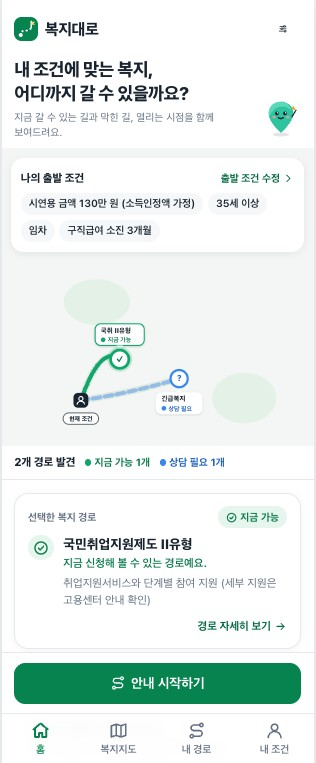
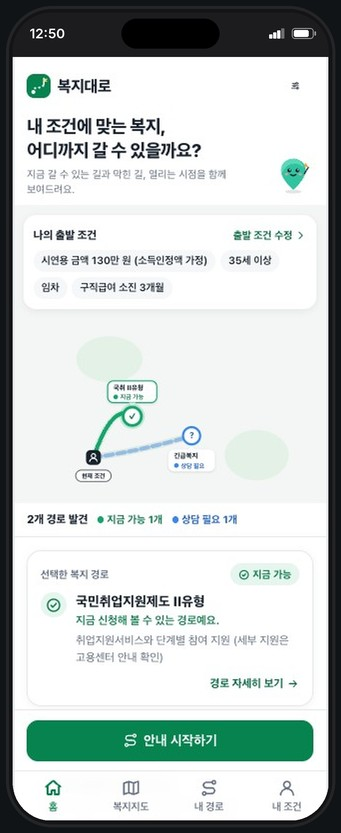
Add files via upload

diff --git a/index.html b/index.html
@@ -166,9 +166,23 @@ nav:has(.sheet.open) .cats .kc{stroke:var(--tint)}
 .browser .bar i{width:7px;height:7px;border-radius:50%;background:var(--line)}
 .browser .bar span{margin-left:12px}
 .browser img{width:100%}
-.screen{width:100%;background:#0B0D12;border-radius:10px 10px 0 0;padding:8px 8px 0;box-shadow:0 12px 32px rgba(30,36,34,.12);overflow:hidden}
-.screen img{width:100%;border-radius:4px 4px 0 0;display:block}
-.d-cover .screen{max-width:980px}
+.screen{position:relative;display:flex;height:100%;padding:9px;border-radius:18px;background:linear-gradient(155deg,#2E3136 0%,#15171A 28%,#0C0D0F 100%);box-shadow:0 0 0 1px #D9DCE0,0 0 0 2.5px #8D9299,0 0 0 3.5px rgba(40,36,30,.25),inset 0 1px 0 rgba(255,255,255,.14),0 34px 46px -22px rgba(52,40,24,.55),0 10px 18px -8px rgba(30,26,20,.28)}
+.screen img{height:100%;width:auto;max-width:none;border-radius:8px;display:block;box-shadow:0 0 0 1px rgba(255,255,255,.09)}
+.screen::after{content:"";position:absolute;inset:9px;border-radius:8px;pointer-events:none;background:linear-gradient(115deg,rgba(255,255,255,.07) 0%,rgba(255,255,255,0) 38%)}
+.cover:has(.screen),.d-cover:has(.screen){position:relative;isolation:isolate}
+.cover:has(.screen)::after,.d-cover:has(.screen)::after{content:"";position:absolute;z-index:0;left:-12%;right:-12%;bottom:-2px;height:27%;border-radius:50% 50% 0 0/46% 46% 0 0;background:linear-gradient(180deg,#CBC3B6 0%,#BCB3A5 50%,#A99F90 100%);border-top:2px solid #E6D9C0;box-shadow:inset 0 1px 0 rgba(255,255,255,.7),inset 0 3px 0 rgba(120,100,70,.18),0 -1px 0 rgba(60,50,35,.12)}
+.cover:has(.screen)::before,.d-cover:has(.screen)::before{content:"";position:absolute;z-index:0;left:-10%;right:-10%;bottom:-2px;height:calc(27% - 12px);border-radius:50% 50% 0 0/46% 46% 0 0;border-top:1px dashed rgba(255,250,240,.55);pointer-events:none}
+.cover:has(.screen),.d-cover:has(.screen){background:radial-gradient(ellipse 70% 60% at 50% 28%,rgba(255,255,255,.65),rgba(255,255,255,0) 70%),linear-gradient(180deg,#EEEBE6 0%,#E2DDD5 100%)}
+.cover:has(.screen) .screen,.d-cover:has(.screen) .screen{z-index:1}
+.cover:has(.screen){padding:24px 30px 13%;align-items:center}
+.d-cover:has(.screen){aspect-ratio:auto;height:min(52vw,640px);padding:44px 72px 12%;align-items:center}
+.d-cover:has(.screen)::after{height:21%}
+.d-cover:has(.screen)::before{height:calc(21% - 14px)}
+@media (min-width:641px){.d-cover:has(.screen){padding-bottom:min(7vw,96px)}}
+.d-cover .screen{padding:12px;border-radius:22px}
+.d-cover .screen img,.d-cover .screen::after{border-radius:10px}
+.d-cover .screen::after{inset:12px}
+.gallery.car img{border:0;border-radius:6px;padding:6px;background:#0B0D11;box-shadow:inset 0 0 0 1px rgba(255,255,255,.06)}
 .phones{display:flex;gap:18px;justify-content:center;width:100%}
 .phones img{width:36%;border-radius:20px;box-shadow:0 12px 32px rgba(30,36,34,.12)}
 .card:hover .cover .browser,.card:hover .cover .phones{transform:translateY(-6px)}
@@ -323,6 +337,9 @@ footer.wrap{margin-top:120px}
 #v-contact .c-rows div{border-bottom:1px dashed color-mix(in srgb,var(--blue) 16%,transparent)}
 #v-contact .c-rows div:last-child{border-bottom:0}
 @media (max-width:640px){#v-contact .c-rows{padding:2px 20px;border-radius:18px}}
+@media (max-width:640px){.cover:has(.screen){padding:16px 20px 13%}.d-cover:has(.screen){height:66vw;padding:16px 18px 13%}.screen,.d-cover .screen{padding:6px;border-radius:12px}.screen img,.d-cover .screen img,.screen::after,.d-cover .screen::after{border-radius:6px}.screen::after,.d-cover .screen::after{inset:6px}.gallery.car img{padding:4px}}
+@media (prefers-color-scheme:dark){:root:not([data-theme="light"]) .cover:has(.screen)::after,:root:not([data-theme="light"]) .d-cover:has(.screen)::after{background:linear-gradient(180deg,#3B3631,#2A2622 55%,#1E1B18);border-top-color:#6E6455}}
+:root[data-theme="dark"] .cover:has(.screen)::after,:root[data-theme="dark"] .d-cover:has(.screen)::after{background:linear-gradient(180deg,#3B3631,#2A2622 55%,#1E1B18);border-top-color:#6E6455}
 </style>
 <style>
 /* ---- v2: 다중 페이지 내비게이션 ---- */
@@ -922,7 +939,7 @@ syne:{cat:'personal',color:'c-sage',kind:'Automotive · Audio',year:'2026',scope
    list:['속도 구간에 따라 편성과 멜로디 음색이 바뀌고, 조향각은 A 마이너 펜타토닉으로 양자화한 멜로디와 패닝이 됨','급제동은 테이프 스톱으로 끊고 다음 마디 첫 박에서 다시 진입, 정차하면 드럼과 베이스가 빠짐','내비 남은 시간에 맞춰 도착 시점까지 곡 구조를 배분','드럼을 포함한 모든 소리를 웨이브테이블·polyBLEP 오실레이터와 SVF 필터로 직접 합성']},
   {l:'Safety',h:'안전 설계',list:['과속하면 곡이 낡은 테이프처럼 먹먹해지고, 편성은 제한속도 기준으로 계산해 더 빨리 달려도 보상하지 않음','주행 중에는 숫자·버튼·애니메이션 없는 정지 그래픽 화면만 표시','사각지대 카메라 팝업 영역을 비우고, 내비 음성 안내 중에는 음악을 자동으로 낮춤']},
   {l:'Album',h:'코스 앨범 · 앨범 아트',list:['출발·도착 지점을 반경 300m로 클러스터링해 같은 코스의 주행을 한 앨범의 Vol.1, Vol.2…로 묶음','주행 데이터로 무드 가중치를 정하고, 18종 매체 중 하나로 곡마다 커버를 기기 안에서 생성','좌표는 앱 내부 DB에서만 쓰고, 휴대폰 컴패니언 앱에는 좌표를 뺀 .syne 번들로 전달']},
-  {l:'Screens',h:'주요 화면',gallery:{type:'wide2',items:[['img/syne-home.jpg','홈 · 장르와 목적지 선택'],['img/syne-driving.jpg','주행 화면 · 무터치 정지 그래픽'],['img/syne-track.jpg','도착 · 주행 기록과 하이라이트'],['img/syne-library.jpg','보관함 · 코스 앨범']]}},
+  {l:'Screens',h:'주요 화면',gallery:{type:'wide2 car',items:[['img/syne-home.jpg','홈 · 장르와 목적지 선택'],['img/syne-driving.jpg','주행 화면 · 무터치 정지 그래픽'],['img/syne-track.jpg','도착 · 주행 기록과 하이라이트'],['img/syne-library.jpg','보관함 · 코스 앨범']]}},
   {l:'Testing',h:'검증',p:['음악 반응은 오프라인 렌더 테스트로 수치를 확인합니다(급제동 1초 내 −66dB, 정차 시 저역 −11dB). 편성 규칙, 코스 클러스터링, 번들 형식 등 단위 테스트 55개를 작성했습니다.']},
   {l:'Status',h:'현재 상태',p:['Pleos Connect 에뮬레이터에서 데모 주행(Replay)으로 동작합니다. AI 앨범 아트 서버와 차량–휴대폰 실시간 동기화는 준비 중입니다.']}
  ]},
